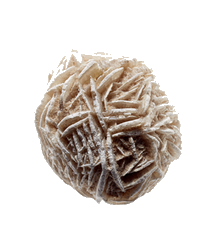
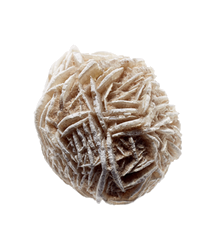
antialiasing; sum of squares diff

diff --git a/PaintBucketExample/PaintBucketExample/ViewController.swift b/PaintBucketExample/PaintBucketExample/ViewController.swift
@@ -18,7 +18,7 @@ class ViewController: UIViewController {
         self.view.backgroundColor = UIColor.orangeColor()
         self.view.addSubview(self.imageView)
         self.imageView.contentMode = .ScaleAspectFit
-        self.imageView.image = UIImage(named: "benchmark")?.pbk_imageByReplacingColorAt(0, 0, withColor: UIColor.clearColor(), tolerance: 10, antialias: false)
+        self.imageView.image = UIImage(named: "benchmark")?.pbk_imageByReplacingColorAt(0, 0, withColor: UIColor.clearColor(), tolerance: 200, antialias: true)
     }
 
     override func viewDidLayoutSubviews() {

diff --git a/PaintBucket/ImageBuffer.swift b/PaintBucket/ImageBuffer.swift
@@ -60,9 +60,6 @@ class ImageBuffer {
             if differenceAtIndex(index, toPixel: colorPixel) > tolerance {
                 continue
             }
-            if differenceAtIndex(index, toPixel: replacementPixel) == 0 {
-                continue
-            }
             
             let pointX = index % imageWidth
             let y = index / imageWidth

diff --git a/PaintBucket/Pixel.swift b/PaintBucket/Pixel.swift
@@ -90,7 +90,7 @@ struct Pixel {
         let g = Int(Pixel.componentDiff(self.g, other.g))
         let b = Int(Pixel.componentDiff(self.b, other.b))
         let a = Int(Pixel.componentDiff(self.a, other.a))
-        return r + g + b + a
+        return r*r + g*g + b*b + a*a
     }
     
     
